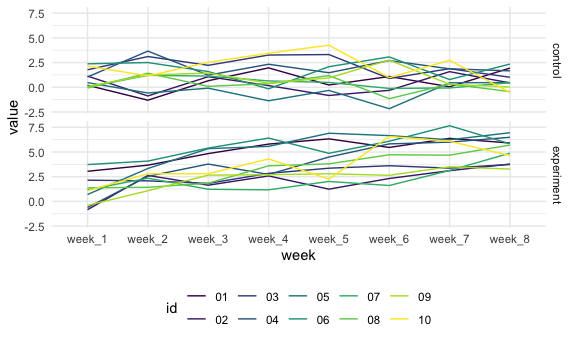
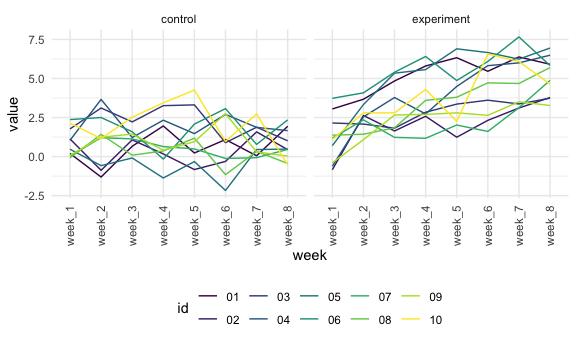
finished the plots!

diff --git a/p8105_HW5_rkm2147.md b/p8105_HW5_rkm2147.md
@@ -19,6 +19,8 @@ library(tidyverse)
     ## x dplyr::lag()    masks stats::lag()
 
 ``` r
+library(patchwork)
+
 knitr::opts_chunk$set(
   fig.width = 6,
   fig.asp = .6,
@@ -64,11 +66,11 @@ homicide_df = read_csv(file = "./homicide-data.csv")
 
 The raw homicide data frame contains the variables: uid, reported\_date,
 victim\_last, victim\_first, victim\_race, victim\_age, victim\_sex,
-city, state, lat, lon, disposition. There are a total of 52179 contained
-within. Upon first glance it appears that we will need to tidy the
-variable concerning the reported data of the incident that occurred.
-Data collected for this frame was by The Washington Post, it gathered
-information on homicides in 50 large U.S. cities
+city, state, lat, lon, disposition. There are a total of 52179
+observations contained within. Upon first glance it appears that we will
+need to tidy the variable concerning the reported data of the incident
+that occurred. Data collected for this frame was by The Washington Post,
+it gathered information on homicides in 50 large U.S. cities
 
 Create city\_state variable & resolved variable
 
@@ -143,8 +145,7 @@ results_df %>%
 
 # Problem 2
 
-Start with a dataframe containing all file names; the list.files
-function will help
+Import the data
 
 ``` r
 path_df = 
@@ -378,9 +379,7 @@ path_df =
     ##   week_8 = col_double()
     ## )
 
-Tidy the result; manipulate file names to include control arm and
-subject ID, make sure weekly observations are “tidy”, and do any other
-tidying that’s necessary
+Tidying the recently imported data
 
 ``` r
 tidy_df =
@@ -406,27 +405,28 @@ path = str_replace(path, ".csv", "")
   )
 ```
 
-make a spaghetti plot showing observations on each subject over time,
-and comment on differences between groups.
-
-need to figure out how to compare control vs treatment
+Spaghetti plot\!
 
 ``` r
 tidy_df %>% 
  
-  ggplot(aes( x = week, y = value, group = id, color = id)) + geom_line() +  facet_grid(rows = vars(treatment)) 
+  ggplot(aes( x = week, y = value, group = id, color = id)) + geom_line() +  facet_grid(cols = vars(treatment)) + 
+  theme(axis.text.x = element_text(angle = 90, vjust = 0.5, hjust = 1))
 ```
 
 <img src="p8105_HW5_rkm2147_files/figure-gfm/unnamed-chunk-10-1.png" width="90%" />
 
-\*\*\* switch the position of the facet, to better compare the
-values\*\*\* \# problem 3
+We can see from the plot that when comparing the control and experiment
+group, the experiment group across the weeks of the study has the
+highest amount of values recorded. Focusing in on the control group, the
+values recorded relatively stayed the same over the span of 8 weeks. For
+the experiment group, the values increased incrementally over the course
+of 8 weeks.This makes sense considering the placebo effect of the
+control.
 
-x∼Normal\[μ,σ\]
+# Problem 3
 
-For each dataset, save μ̂ and the p-value arising from a test of H:μ=0
-using α=0.05 . Hint: to obtain the estimate and p-value, use broom::tidy
-to clean the output of t.test.
+Set up the function that is to be used.
 
 ``` r
 sim_ms = function(n = 30, mu, sigma = 5) {
@@ -448,40 +448,35 @@ sim_ms = function(n = 30, mu, sigma = 5) {
 }
 ```
 
-Run for μ=0
+Set μ=0 Generate 5000 datasets from the model x∼Normal\[μ,σ\]
 
 ``` r
 zero_output = 
-  rerun(50, sim_ms(30, 0, 5)) %>% 
+  rerun(5000, sim_ms(30, 0, 5)) %>% 
   bind_rows() %>% 
   select(
     estimate, p.value
   )
+
+zero_output
 ```
 
-Re running for μ={0,1,2,3,4,5,6}
+    ## # A tibble: 5,000 x 2
+    ##    estimate p.value
+    ##       <dbl>   <dbl>
+    ##  1    1.39   0.101 
+    ##  2    1.26   0.161 
+    ##  3   -0.690  0.459 
+    ##  4   -0.216  0.812 
+    ##  5   -1.59   0.0374
+    ##  6    1.22   0.277 
+    ##  7   -0.543  0.549 
+    ##  8   -0.130  0.902 
+    ##  9   -0.518  0.536 
+    ## 10    1.02   0.357 
+    ## # … with 4,990 more rows
 
-``` r
-# don't believe this works
-mu_list = 
-  list(
-    "mu_0"  = 0, 
-    "mu_1"  = 1, 
-    "mu_2" = 2, 
-    "mu_3" = 3,  
-    "mu_4" = 4, 
-    "mu_5" = 5,
-    "mu_6" = 6
-    )
-
-six_output = vector("list", length = 7)
-
-for (i in 1:7) {
-  six_output[[i]] = rerun(5, sim_ms(mu = mu_list[[i]])) %>% bind_rows() %>%  select(estimate, p.value)
-}
-```
-
-trying maria’s way
+Re running our previously set function for μ={0,1,2,3,4,5,6}
 
 ``` r
 new_six = 
@@ -495,28 +490,10 @@ new_six =
       select(-output_list)
 ```
 
-Make a plot showing the proportion of times the null was rejected (the
-power of the test) on the y axis and the true value of μ (1-6) on the x
-axis. Describe the association between effect size and power.
+Plot showing the power of the test
 
 ``` r
-# i dont think this works...
-graph_data =
-bind_rows(six_output) %>%
-mutate(
-test_results = case_when(
-p.value < .05 ~ "reject",
-p.value >= .05 ~ "fail to reject"
-))  %>% 
-  summarize(
-    total_test = n(),
-    reject_test = sum(test_results == "reject")) %>% 
-  mutate(
-    power = (reject_test / total_test))
-```
-
-``` r
-rejection_plot = 
+power_plot = 
 new_six %>% group_by(mu) %>% 
   count(p.value < .05) %>% 
   mutate(
@@ -535,9 +512,95 @@ The association between effect size and power is visualized in the
 rejection\_plot. We can see that as the true value of mu for the sample
 increases, or in this case deviates from the null value of 0, the effect
 size increases. This increase in the effect size results in the increase
-of the power for the study. Power is (1- Beta), beta being the
-proportion of the null hypothesis being rjected. Even at a considerably
-small effect size, when the true value of mu is very close to the null
-mu value, we see that the power is just above 0.0 and is not exactly 0.
-I understand this is due to the random error and chance associated with
-studies that were simulated.
+of the power for the study. Power is (1- Beta), the probability of
+avoiding a type II error. Even at a considerably small effect size, when
+the true value of mu is very close to the null mu value, we see that the
+power is just above 0.0 and is not exactly 0. I understand this is due
+to the random error and chance associated with studies that were
+simulated.
+
+Setting up data frame for samples in which null is rejected
+
+``` r
+rejected_data = 
+new_six %>% 
+mutate(
+test_results = case_when(
+p.value < .05 ~ "reject",
+p.value >= .05 ~ "fail to reject"
+)) %>% 
+  filter(
+    test_results == "reject"
+  ) %>% 
+  group_by(mu)
+```
+
+null is rejected data plot
+
+``` r
+reject_plot =
+rejected_data %>% 
+  summarize(
+    mean_reject = mean(estimate)
+  ) %>% 
+  ggplot(aes(x = mu, y = mean_reject)) + geom_smooth() + geom_point() +
+labs(
+    
+    title = "Rejected null data",
+      x = "True value of Mu",
+    y = "average estimate of μ̂
+ only in samples for which the null was rejected"
+  )
+```
+
+    ## `summarise()` ungrouping output (override with `.groups` argument)
+
+Setting up data frame for all samples
+
+``` r
+all_data = 
+new_six %>% 
+mutate(
+test_results = case_when(
+p.value < .05 ~ "reject",
+p.value >= .05 ~ "fail to reject"
+))  %>% 
+  group_by(mu)
+```
+
+Plot for all of the samples
+
+``` r
+all_plot = 
+all_data %>% 
+  summarize(
+    mean_all = mean(estimate)
+  ) %>% 
+  ggplot(aes(x = mu, y = mean_all)) + geom_smooth() + geom_point() +
+labs(
+    
+    title = "All data",
+      x = "True value of Mu",
+    y = "average estimate of μ̂
+ "
+  )
+```
+
+    ## `summarise()` ungrouping output (override with `.groups` argument)
+
+Final plots\!\!
+
+``` r
+all_plot + reject_plot
+```
+
+    ## `geom_smooth()` using method = 'loess' and formula 'y ~ x'
+    ## `geom_smooth()` using method = 'loess' and formula 'y ~ x'
+
+<img src="p8105_HW5_rkm2147_files/figure-gfm/unnamed-chunk-19-1.png" width="90%" />
+
+We see the most deviation between the average estimate of mu for all
+data and for the rejected null hypothesis data when the true value of mu
+is in the lower range (closer to the value of 0). The sample average of
+μ̂ across tests for which the null is rejected becomes more equal to
+the true value of μ as the true value increases.
